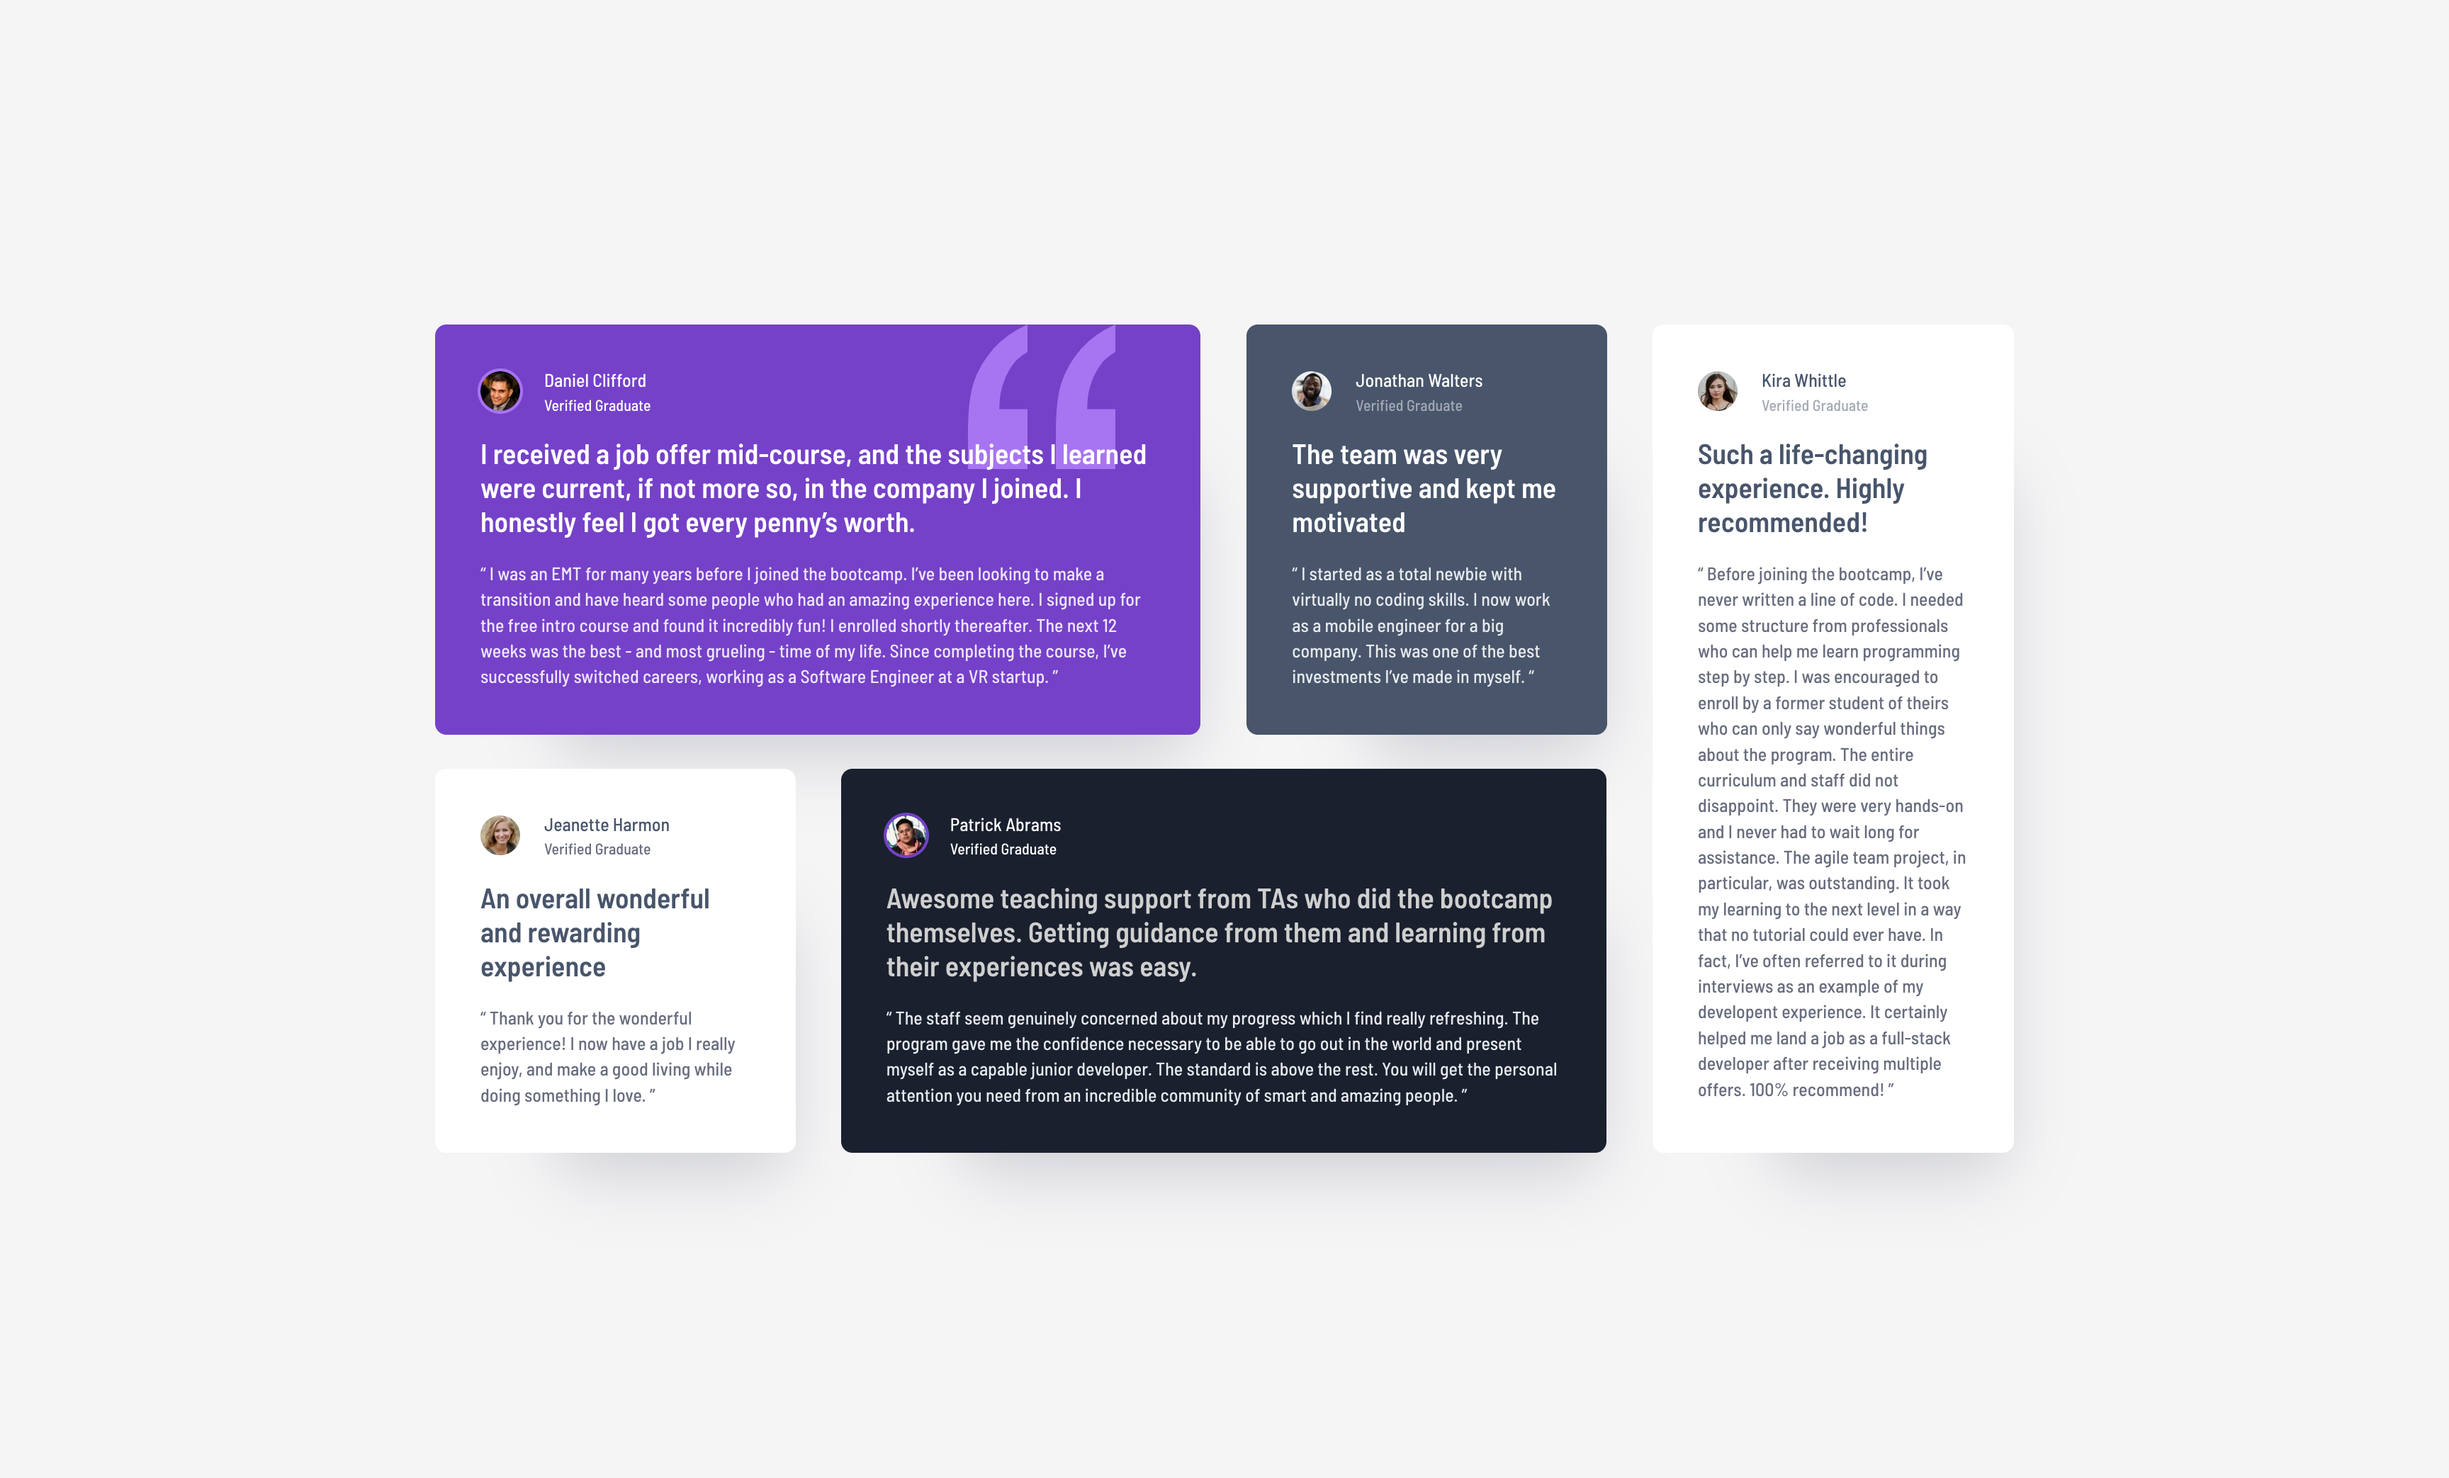
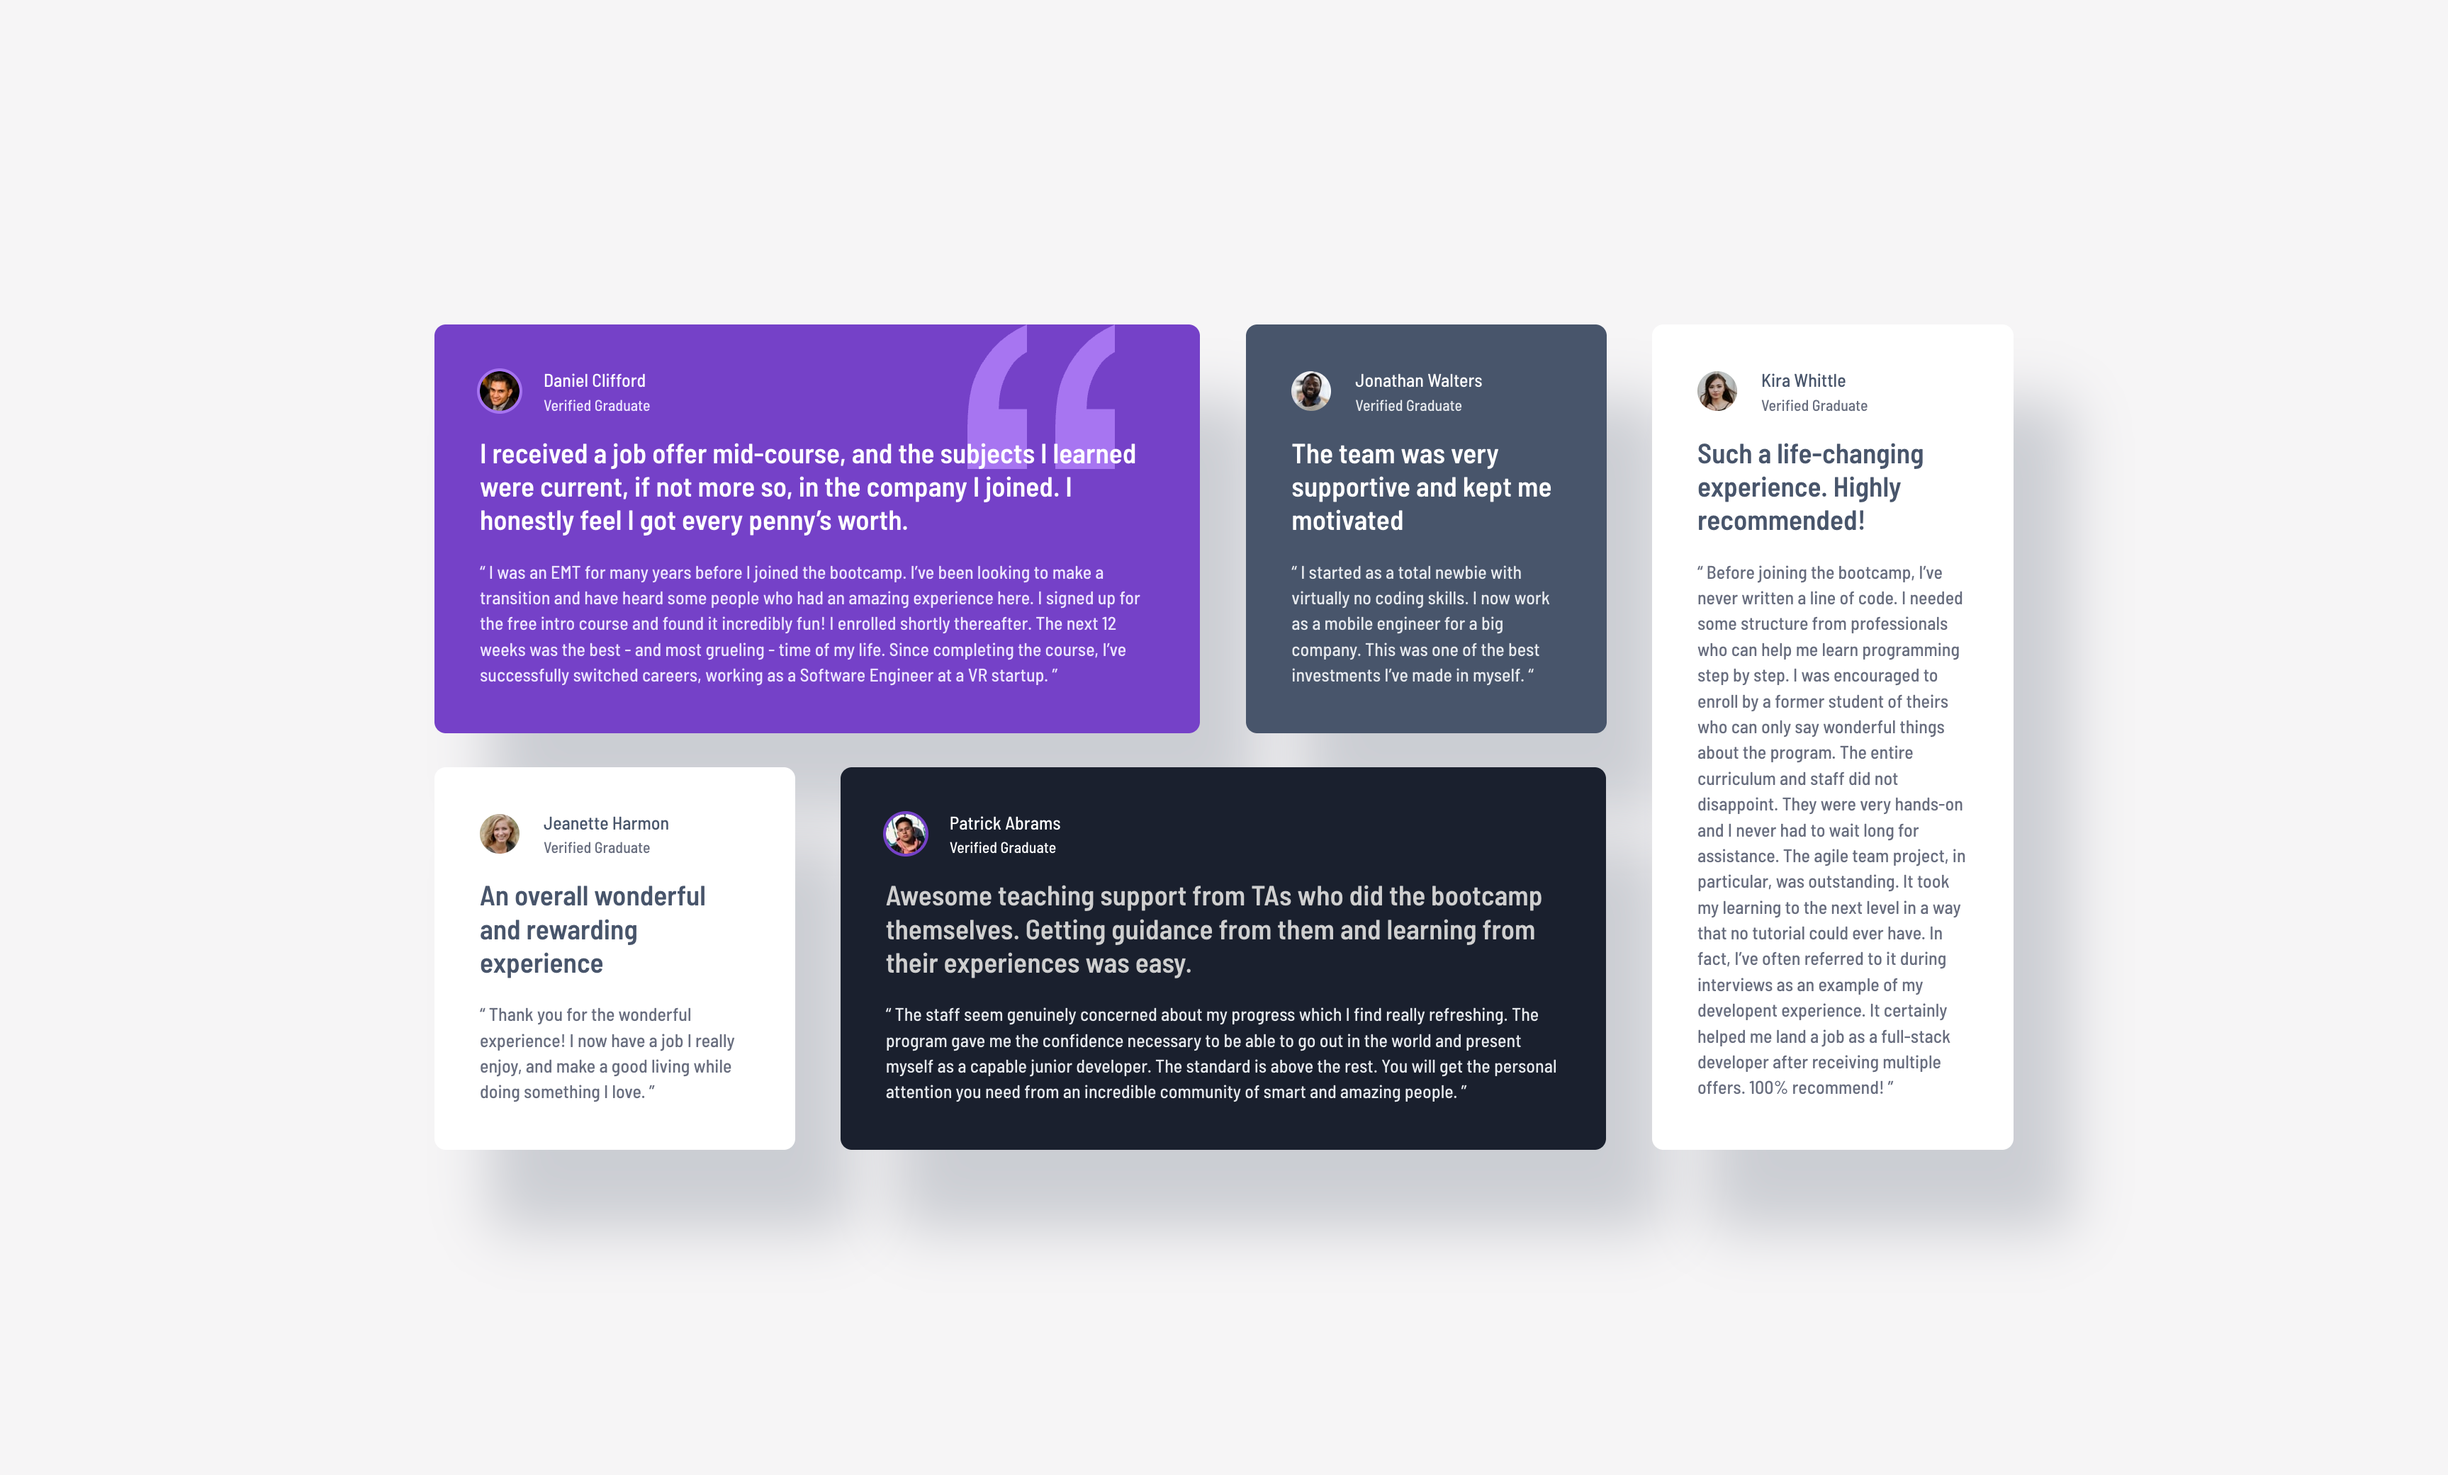
Fix .sr-only react typo

Changed region(s): [[0.1859, 0.2498, 0.8674, 0.8429], [0.5576, 0.4059, 0.5886, 0.4371]]

diff --git a/07-testimonials-grid-section/assets/css/index.css b/07-testimonials-grid-section/assets/css/index.css
@@ -112,7 +112,7 @@ img {
     padding: 0;
     margin: -1px;
     overflow: hidden;
-    clip: react(0, 0, 0, 0);
+    clip: rect(0, 0, 0, 0);
     white-space: nowrap;
     border: 0;
 }
